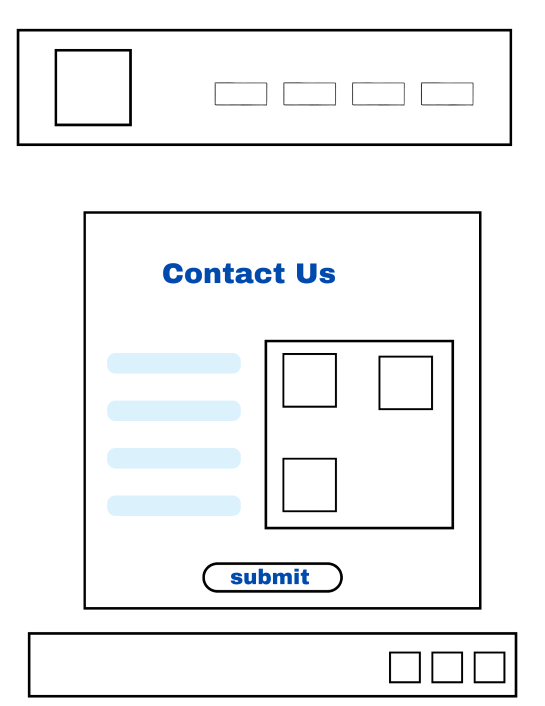
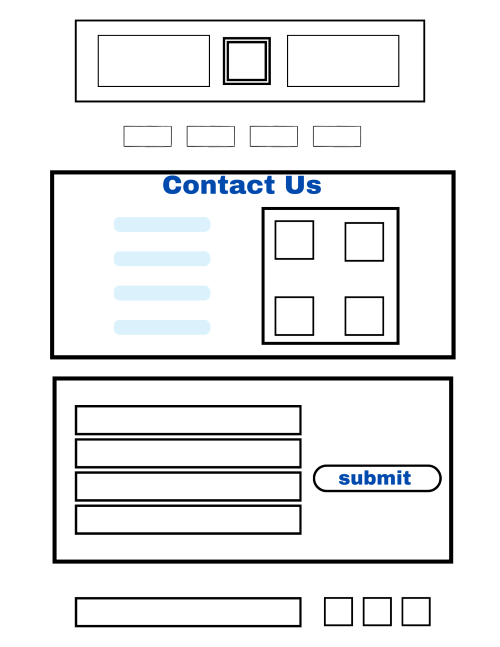
changes

Changed region(s): [[0.03, 0.2473, 0.96, 0.9892], [0.03, 0.0309, 0.96, 0.2164]]

diff --git a/wwr/about1.html b/wwr/about1.html
@@ -87,7 +87,7 @@
           </nav>
           
       </footer>
-      <img src="images/wireframe2.jpg" alt="wireframecontact">
+      <img src="images/wireframeabout.png" alt="wireframecontact">
   
   </body>
   </html>

diff --git a/wwr/index.html b/wwr/index.html
@@ -42,6 +42,7 @@
       
     <footer>
         <p>©2024😁Rafting Site Plan😁Vicky Donelson😁WDD130</p>
+        <img src="images/wireframeindex.png">
     </footer>
   </body>
   </html>
